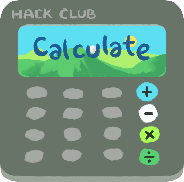
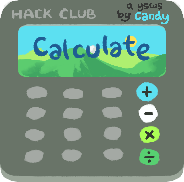
edit info, add name, submit button style

Changed region(s): [[0.625, 0.0, 0.9239, 0.1374]]

diff --git a/app/page.tsx b/app/page.tsx
@@ -6,7 +6,6 @@ import { useGSAP } from '@gsap/react';
 import { useEffect } from 'react';
 import { useRouter } from 'next/navigation';
 import { router } from "better-auth/api";
-//import { authClient } from '@/lib/auth-client';
 
 gsap.registerPlugin(useGSAP);
 gsap.registerPlugin(ScrollTrigger);
@@ -66,13 +65,6 @@ export default function Home() {
             }
         );
     })
-
-    /*async function handleLogin() {
-        await authClient.signIn.oauth2({
-            providerId: "hackclub",
-            callbackURL: "/dashboard",
-        })
-    }*/
     const router = useRouter()
     function gotoGuides() {
         router.push("/guides")
@@ -114,11 +106,10 @@ export default function Home() {
                             <span className="text-[#fff4bb]">make</span> any project that involves numbers, and <br /> <span className="text-[#fff4bb]">we'll ship you</span> an <span className="y">(actual) calculator!!</span>
                         </span>
 
-                        <br /><br />sounds good? you could make a [<span className="b">calculator app for your <span className="text-white">phone?? sprig?? fridge???</span></span>], [<span className="l">rhythm game involving math</span>], or maybe [<span className="g">the worst calculator to ever exist?????</span>], [<span className="y">physics engine??</span>] ...well...anything!! as long as you add your own unique twist to it :-)
+                        <br /><br />sounds good? you could make a [<span className="b">calculator app for your <span className="text-white">phone?? sprig?? fridge???</span></span>], [<span className="l">rhythm game involving math</span>], or maybe [<span className="g">the worst calculator to ever exist?????</span>], [<span className="y">physics engine??</span>] ...well...anything!! as long as you add your own unique twist to it :-) and don't forget to hackatime! (see below for more info)
                     </p>
                     <div className="lg:px-16 px-8">
-                        <button className="otherbtn mt-[40px] lg:mb-[60px] mb-[60px] font-pirkkala text-xl" onClick={gotoForm}>Submit</button>
-                        {/*<button className="coolbtn mb-[60px] font-pirkkala text-xl lg:ml-[12px]">Hardware/Art Time Tracker</button>*/}
+                        <button className="rainbowbtn mt-[40px] lg:mb-[60px] mb-[60px] font-pirkkala text-xl" onClick={gotoForm}>Submit</button>
                     </div>
                 </fieldset>
                 <div className="flex lg:mx-[2%] mx-[5%] mt-[20%] lg:mt-[5%] justify-between lg:flex-row flex-col h-auto">
@@ -142,7 +133,7 @@ export default function Home() {
                                 <img src="assets/prize.gif" className="pixel w-[70%] h-auto" />
                                 <img src="prizes/3.png" className="absolute w-[70%]" />
                             </div>
-                            <p className="text-center my-5 font-pirkkala text-xl"><span className="b">impressive:</span> get a TI-84 plus CE! (~24hr)</p>
+                            <p className="text-center my-5 font-pirkkala text-xl"><span className="b">impressive:</span> get a TI-84 plus CE / any graphing calc! (~24hr)</p>
 
                             <div className="relative flex justify-center w-full mt-[50px] h-auto">
                                 <img src="prizes/huh.PNG" className="w-[70%] pixel" />
@@ -186,7 +177,7 @@ export default function Home() {
                         <span className="b">#1.</span> think of (cool!!!) ideas and allat <br />
                         + + + + + + + + + + + + + + + + + + + <br />
                         <span className="y">#2.</span> track your time with <a href="https://hackatime.hackclub.com/" className="coolink" target="_blank">hackatime</a>, its a tool for time tracking :p <br />
-                        ( -&gt; please use <a href="https://lapse.hackclub.com" className="coolink" target="_blank">lapse</a> for hardware or art tracking!! )<br />
+                        ( -&gt; please use <a href="https://lapse.hackclub.com" className="coolink" target="_blank">lapse</a> for hardware/art tracking!! they support lapse now )<br />
                         - - - - - - - - - - - - - - - - - - - - - - - <br />
                         <span className="l">#3.</span> ask the people in <a href="https://hackclub.enterprise.slack.com/archives/C0ARJHZPU9H" className="coolink" target="_blank">#calculate</a> for feedback! + share your project!!! <br />
                         * * * * * * * * * * * * * * * * * * * * * * * <br />

diff --git a/app/guides/page.tsx b/app/guides/page.tsx
@@ -52,7 +52,7 @@ export default function Guide() {
                     <p>
                         incase you want to track time for hardware or art which does not support hackatime extensions, you can use lapse! basically, lapse records your work (you'll have the option to choose between screen and camera) and you can sync your work to hackatime.
                         <br /><br />
-                        before you start tracking any long projects, i recommend you to test lapse beforehand to prevent losing tracked time!! as of writing, calculate (unfortunately) has yet to support lookout
+                        before you start tracking any long projects, i recommend you to test lapse beforehand to prevent losing tracked time!! lapse also supports lookout tracking now
                         <br /><br />
                         ok enough yapping- basically you should goto <a className="coolink" href="https://lapse.hackclub.com" target="_blank">lapse.hackclub.com</a> and sign in (you'll need a hackatime account for this). after that, you should get to this page. click the <span className="y">'create'</span> button to start!
                         <br /><br />

diff --git a/app/globals.css b/app/globals.css
@@ -158,3 +158,29 @@ body {
 .navlink:focus {
   color: #ff6f6f;
 }
+
+.rainbowbtn {
+  background-color: #7cedf9;
+  padding: 5px 50px;
+  border-radius: 10px;
+  color:#303830;
+  cursor: pointer;
+  transition: background-color 0.3s ease-in-out;
+}
+
+.rainbowbtn:hover {
+  background: linear-gradient(-45deg, #ff6b6b, #ff6b6b, #ff6b6b, #faae56, #fff763, #72ffa6, #66cdef, #7d65f5, #c37be4, #ff81f4, #ff6b6b, #ff6b6b);
+  background-size: 450% 400%;
+	animation: gradient 5s linear infinite;
+  color: white;
+  box-shadow: 0 0 20px #a0f2ff
+}
+
+@keyframes gradient {
+	0% {
+		background-position: 0% 0%;
+	}
+	100% {
+		background-position: -450% 00%;
+	}
+}
